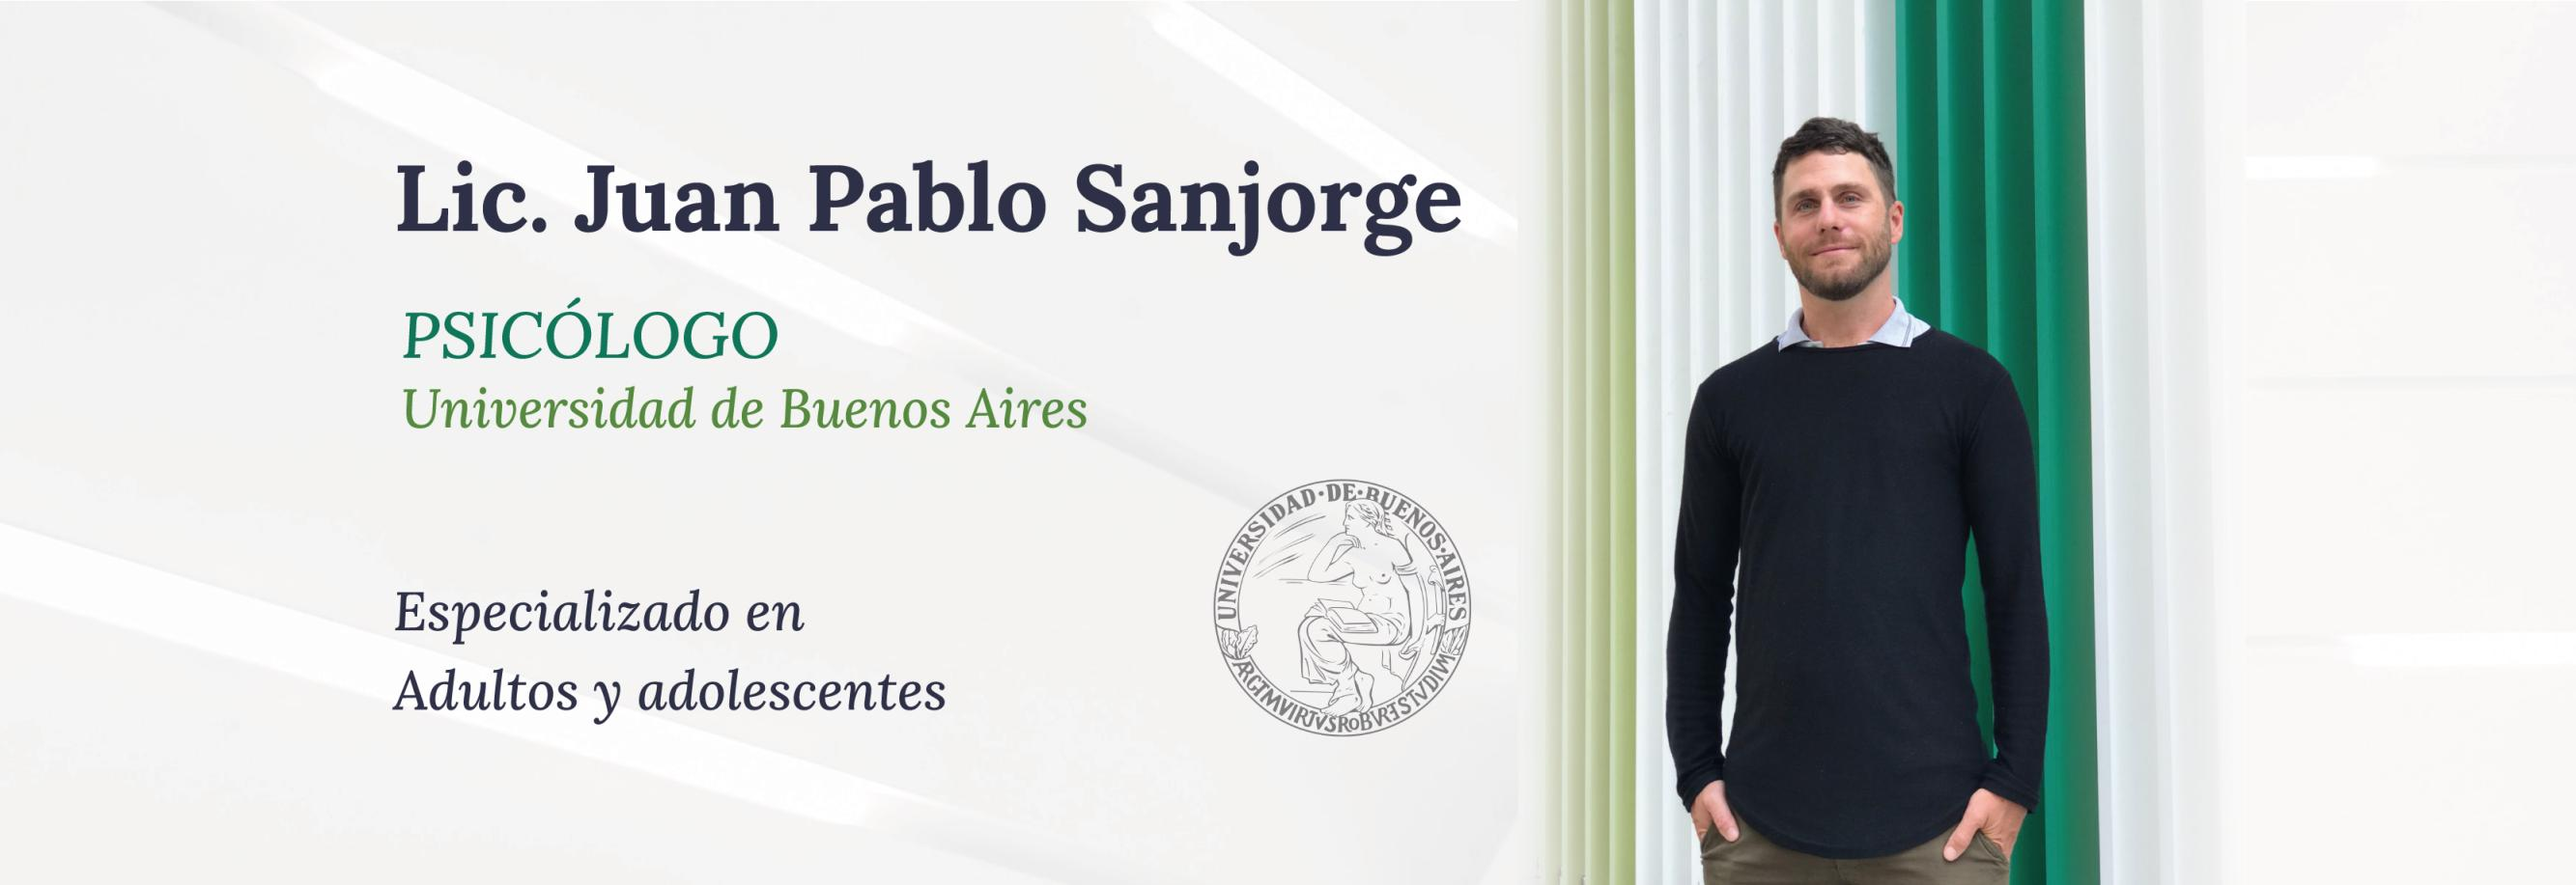
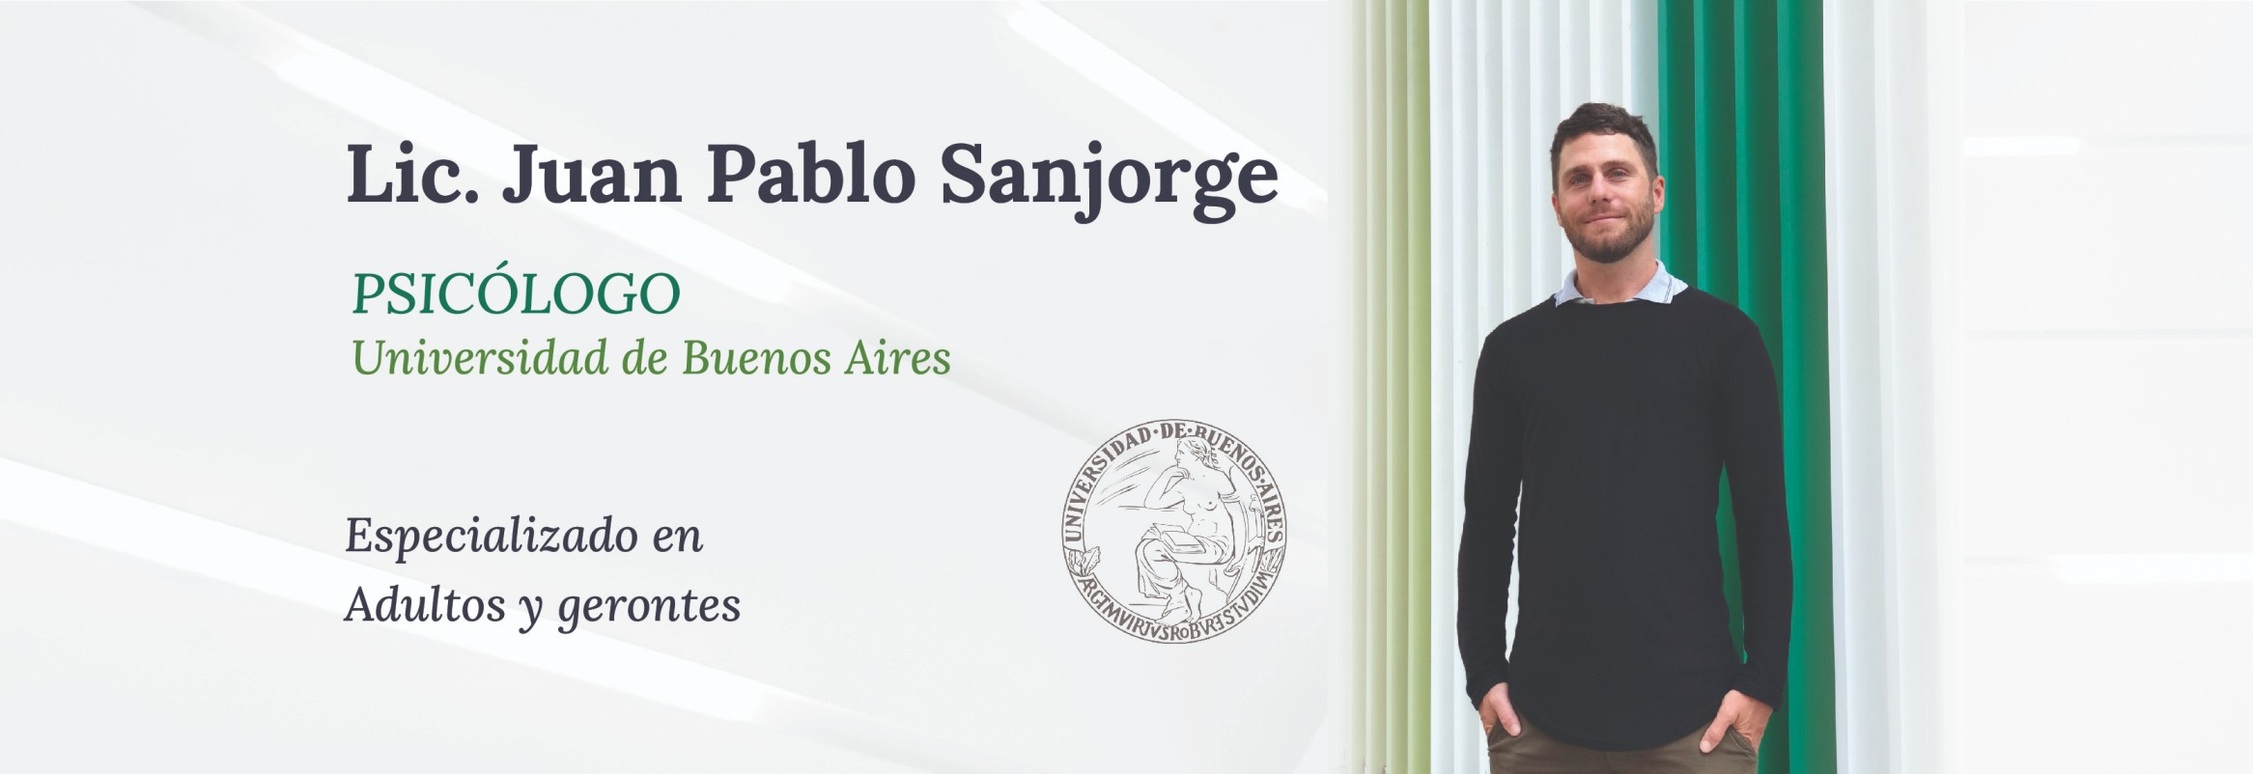
adultos y gerontes + Lic.

diff --git a/src/components/NavBar.jsx b/src/components/NavBar.jsx
@@ -2,7 +2,7 @@ import React, { useState } from "react";
 import { faBars, faXmark } from "@fortawesome/free-solid-svg-icons";
 import { FontAwesomeIcon } from "@fortawesome/react-fontawesome";
 import { Link, NavLink } from "react-router-dom";
-import 'animate.css';
+import "animate.css";
 
 export const NavBar = () => {
   const [menuOpen, setMenuOpen] = useState(false);
@@ -19,19 +19,22 @@ export const NavBar = () => {
         <div className="row ">
           <div className="col-11 col-sm-10 col-md-11 col-xl-10 d-flex flex-row justify-content-between align-items-center mx-auto p-0">
             <Link className="text-decoration-none blanco" to="/">
-              <p className="size30 ps-2 weight500 lh-sm mb-2">Juan Pablo Sanjorge</p>
+              <p className="size30 ps-2 weight500 lh-sm mb-2">
+                Lic. Juan Pablo Sanjorge
+              </p>
             </Link>
             <div className="d-md-none">
               <button
                 className="border-0 blanco fondoVerdeO hoverAmarillo"
                 onClick={toggleMenu}
               >
-                <FontAwesomeIcon icon={isBarsIcon ? faBars : faXmark} size="lg" />
+                <FontAwesomeIcon
+                  icon={isBarsIcon ? faBars : faXmark}
+                  size="lg"
+                />
               </button>
               {menuOpen && (
-                <div
-                  className="col-12 fondoVerdeO sombra pt-2 pb-3 position-absolute top-100 end-0"
-                >
+                <div className="col-12 fondoVerdeO sombra pt-2 pb-3 position-absolute top-100 end-0">
                   <div className="col-11 col-sm-10 d-flex flex-column mx-auto">
                     <div className="text-decoration-none p-0">
                       <NavLink
@@ -77,27 +80,36 @@ export const NavBar = () => {
               )}
             </div>
             <div className="d-none d-md-flex col-5 justify-content-between align-items-center text-decoration-none">
-              <NavLink className={({ isActive }) =>
-                          isActive
-                            ? "d-inline-block amarillo text-decoration-none"
-                            : "d-inline-block text-decoration-none blanco hoverAmarillo subrayado"
-                        } to="/info">
+              <NavLink
+                className={({ isActive }) =>
+                  isActive
+                    ? "d-inline-block amarillo text-decoration-none"
+                    : "d-inline-block text-decoration-none blanco hoverAmarillo subrayado"
+                }
+                to="/info"
+              >
                 <div className="d-flex d-lg-block flex-column">
                   Información <span>Profesional</span>
                 </div>
               </NavLink>
-              <NavLink className={({ isActive }) =>
-                          isActive
-                            ? "d-inline-block amarillo text-decoration-none"
-                            : "d-inline-block text-decoration-none blanco hoverAmarillo subrayado"
-                        } to="/articles">
-                <div >Artículos</div>
+              <NavLink
+                className={({ isActive }) =>
+                  isActive
+                    ? "d-inline-block amarillo text-decoration-none"
+                    : "d-inline-block text-decoration-none blanco hoverAmarillo subrayado"
+                }
+                to="/articles"
+              >
+                <div>Artículos</div>
               </NavLink>
-              <NavLink className={({ isActive }) =>
-                          isActive
-                            ? "d-inline-block amarillo text-decoration-none"
-                            : "d-inline-block text-decoration-none blanco hoverAmarillo subrayado"
-                        } to="/contact">
+              <NavLink
+                className={({ isActive }) =>
+                  isActive
+                    ? "d-inline-block amarillo text-decoration-none"
+                    : "d-inline-block text-decoration-none blanco hoverAmarillo subrayado"
+                }
+                to="/contact"
+              >
                 <div>Contacto</div>
               </NavLink>
             </div>
